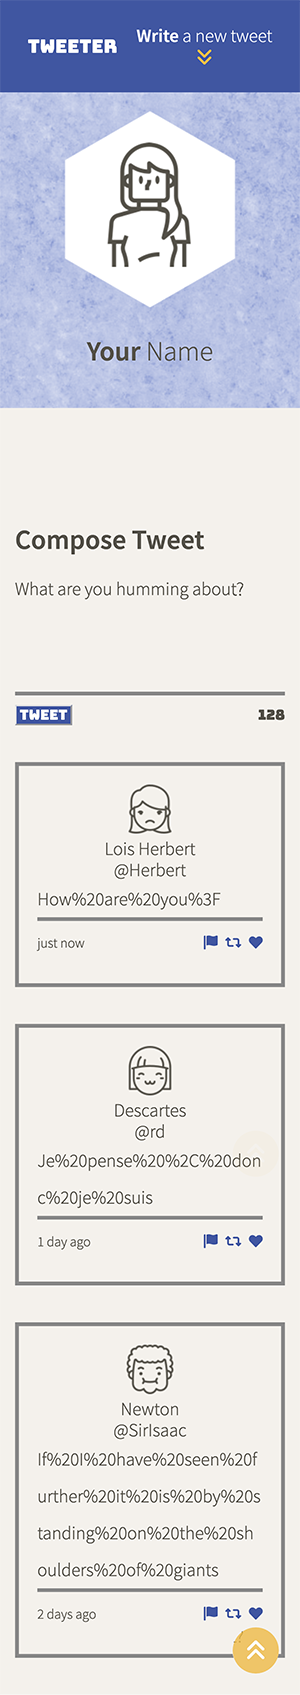
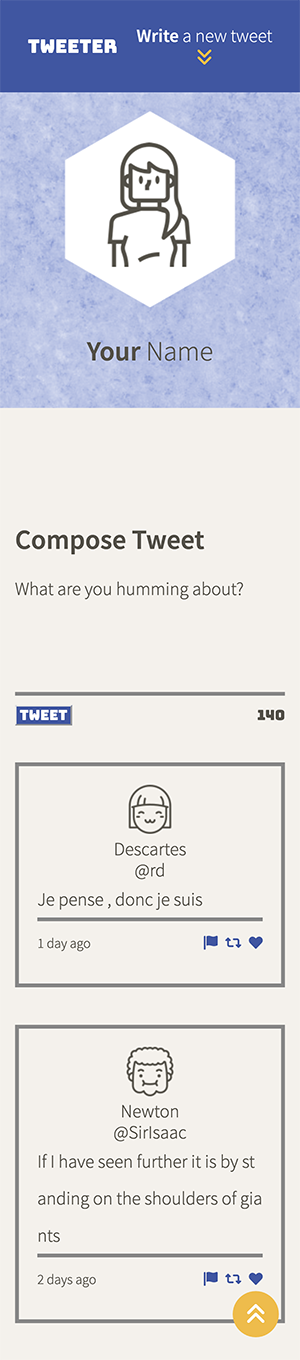
add tweets loaded on initial page

diff --git a/public/scripts/client.js b/public/scripts/client.js
@@ -81,6 +81,7 @@ $(document).ready(function () {
       renderTweets(newOrder);
     });
   };
+  loadTweets();
 
   //
   // submit function and error message
